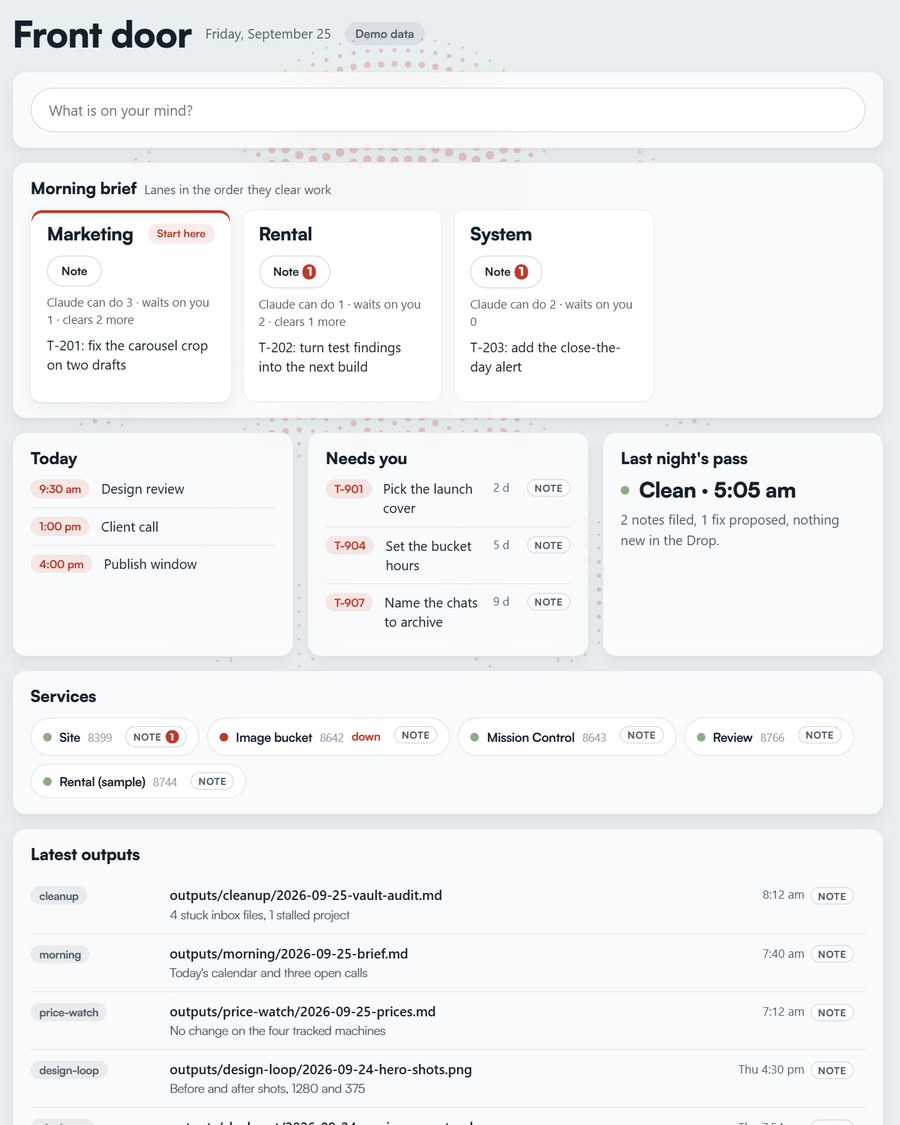
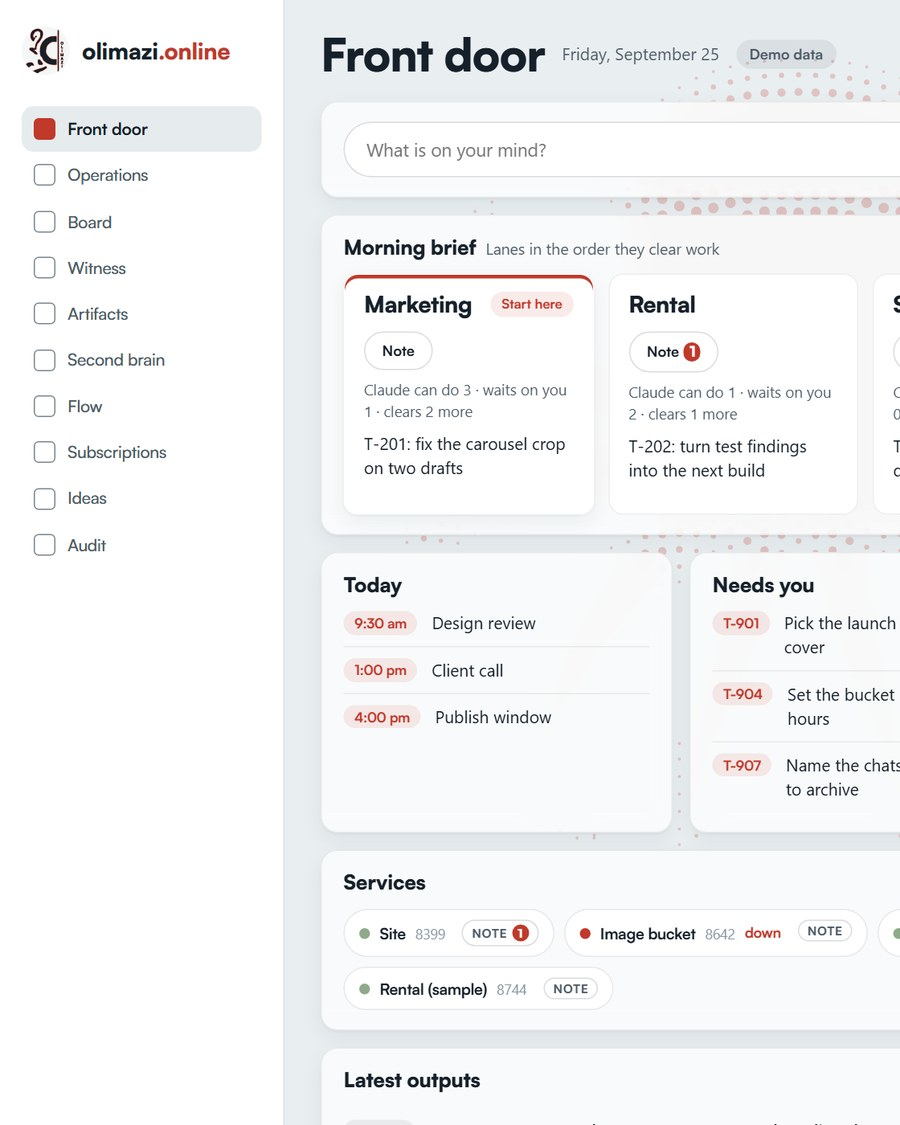
Site: RM and OS tiles zoom to the top-left of each page so they read at tile size

diff --git a/index.html b/index.html
@@ -1844,7 +1844,7 @@ body.locked{overflow:hidden}
  </div>
 </footer>
 <script>
-var IMG={av:'assets/hero-av.png',split:'assets/hero-split.jpg',s3:'assets/hero-s3.jpg',buck:'assets/hero-buck.jpg',garage:'assets/hero-garage.jpg',rm:'assets/hero-rm.jpg?v=3',ops:'assets/hero-ops.jpg?v=3',sketch:'assets/hero-sketch.jpg',wheel:'assets/hero-wheel.jpg'};
+var IMG={av:'assets/hero-av.png',split:'assets/hero-split.jpg',s3:'assets/hero-s3.jpg',buck:'assets/hero-buck.jpg',garage:'assets/hero-garage.jpg',rm:'assets/hero-rm.jpg?v=4',ops:'assets/hero-ops.jpg?v=4',sketch:'assets/hero-sketch.jpg',wheel:'assets/hero-wheel.jpg'};
 var P=[
  {n:'Method Effects',m:'2017–2024',d:'Automotive aero parts: splitters and bucks, designed and made in the US.',im:['split','s3','buck','garage'],c:'assets/method-s3-profile.jpg'},
  {n:'Rental Manager',m:'Sch. E',d:'A workbook you own for running a rental. The spreadsheet stays the source of truth.',im:['rm'],c:{v:'assets/clip-rm.mp4?v=5',p:'assets/clip-rm-poster.jpg?v=5'}},
